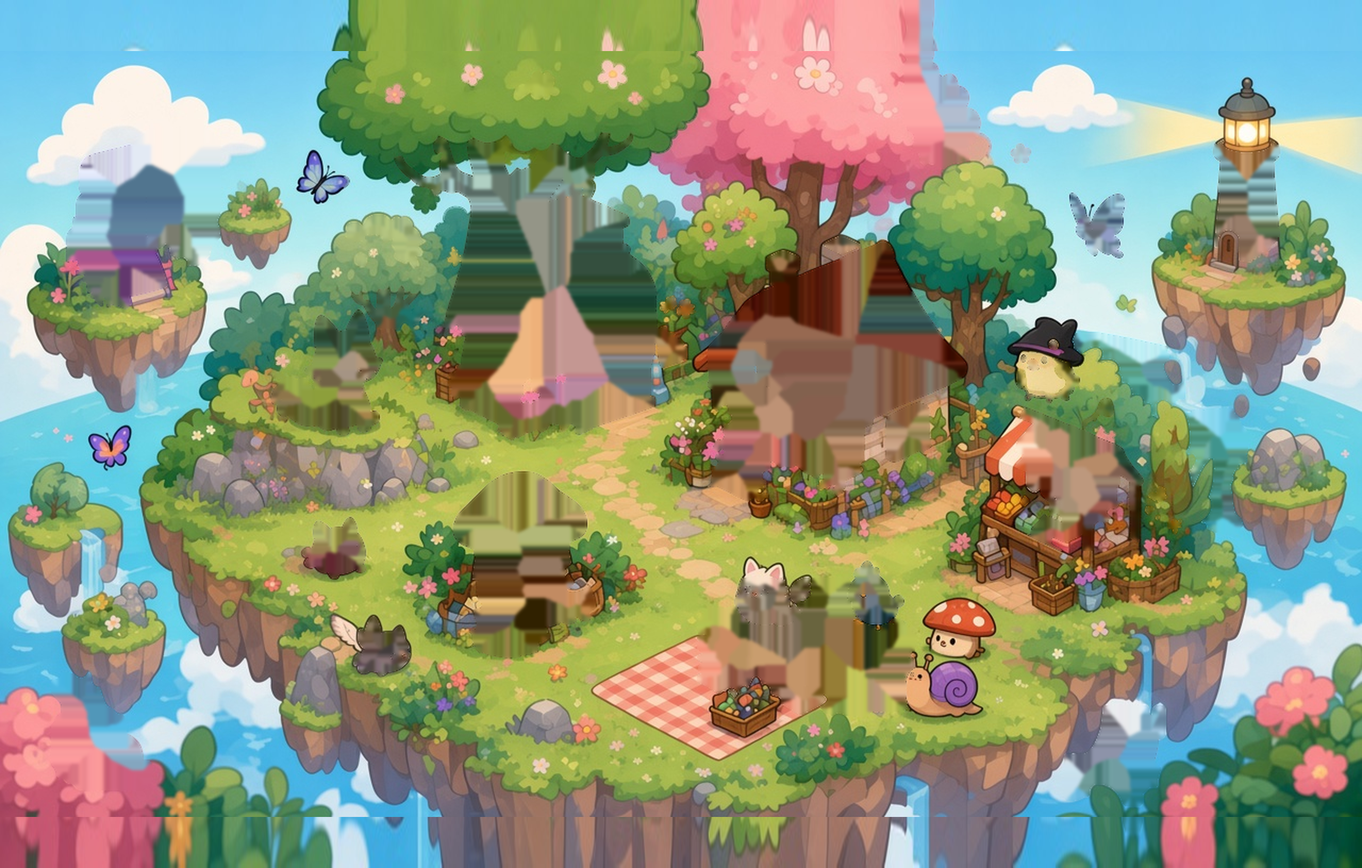
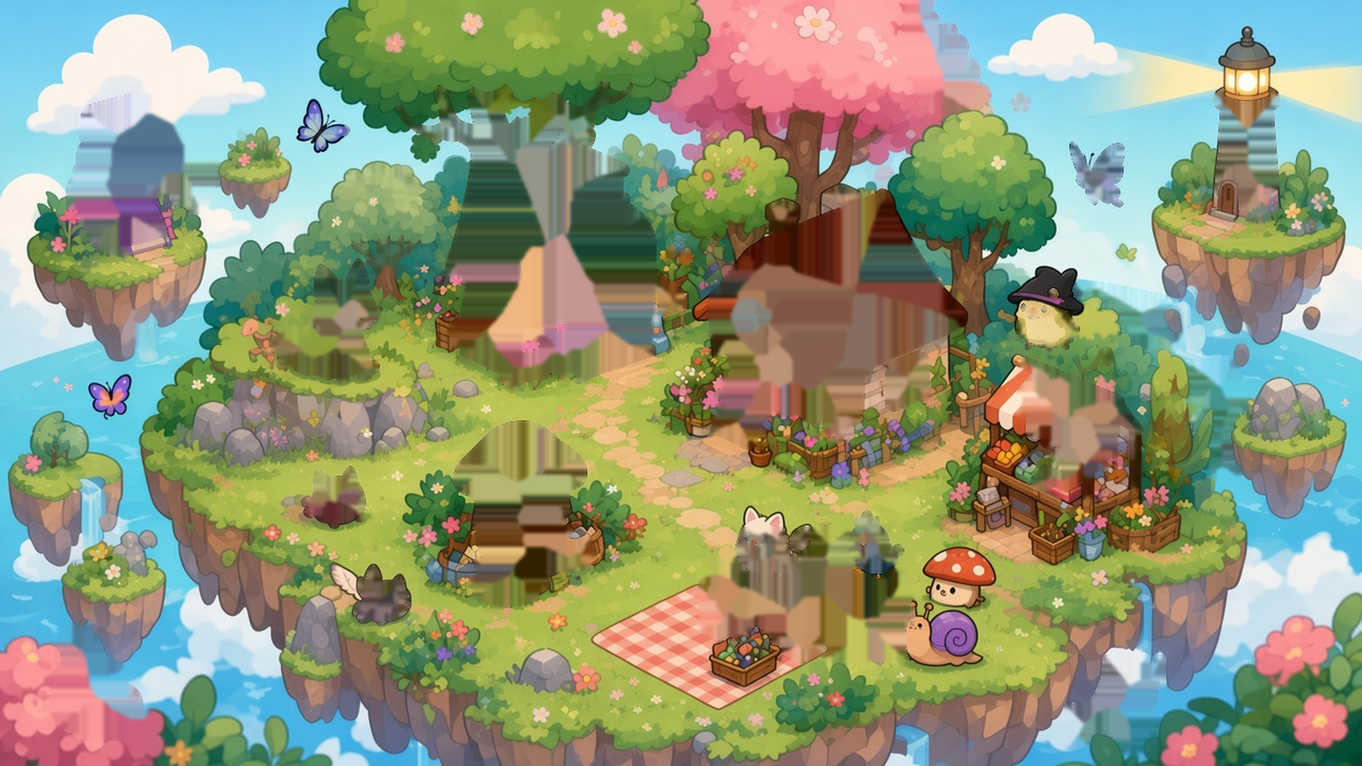
Keep the island view inside the real painting.
The ground plate padded itself by stretching its top and bottom rows, and the camera frame included that pad, so the bottom of the desktop view was a smeared copy of the cliff and flowers. The picture is only the painted pixels now, and the camera stays inside them on taller and shorter windows.

diff --git a/src/world/iso.js b/src/world/iso.js
@@ -26,28 +26,23 @@ export function placeOnPlate(object, x, z, bias = 0) {
 }
 
 /**
- * Sky and sea kept around the painting so the lighthouse cap, the library
- * flag, and the arcade are not cut by the screen edge. Desktop 16:10 and
- * 16:9, and a sideways phone, all contain this frame.
+ * Frame the painting itself.
+ * A margin used to be filled by stretching the picture's edge rows, which
+ * drew a hard seam and streaks under the cliffs and flowers. The view stays
+ * inside the real pixels. A taller window crops the sides a little. A wider
+ * window crops a little sky and foreground instead of stretching the edges.
  */
-const FRAME_MARGIN_Y = 1.15;
+const VIEW_INSET = 0.04;
 
-/**
- * Frame the painting.
- * The view always contains the whole picture, with a band of sky above it
- * and sea below it. A wide window shows a little more sky at the sides.
- */
 export function orthoSize(width, height) {
   const aspect = width / Math.max(1, height);
-  const frameH = PLATE_H + FRAME_MARGIN_Y * 2;
-  const frameW = PLATE_W;
-  const frameAspect = frameW / frameH;
-  if (aspect >= frameAspect) {
-    const viewH = frameH;
-    return { viewW: viewH * aspect, viewH };
+  const artAspect = PLATE_W / PLATE_H;
+  if (aspect >= artAspect) {
+    const viewW = PLATE_W - VIEW_INSET;
+    return { viewW, viewH: viewW / aspect };
   }
-  const viewW = frameW;
-  return { viewW, viewH: viewW / aspect };
+  const viewH = PLATE_H - VIEW_INSET;
+  return { viewW: viewH * aspect, viewH };
 }
 
 /** Short landscape windows are phones held sideways, not a desktop monitor. */

diff --git a/src/data/painted.js b/src/data/painted.js
@@ -2,8 +2,8 @@
  * The bright island. The ground plate is terrain only: islets, sea, paths,
  * and grass. Buildings, trees, the picnic, and animal mascots are separate
  * cards in src/data/layers.js so each file can be replaced on its own.
- * x grows right, z grows down. The picture is 32 units wide and 18 tall,
- * with a little extra sky and sea above and below.
+ * x grows right, z grows down. The picture is 32 units wide and 18 tall.
+ * It is not padded: stretching the edge rows smears the cliff and flowers.
  */
 import {
   CIRCLES,
@@ -18,10 +18,10 @@ export { CIRCLES, HOUSES, LAYOUT, LIBRARY_MASCOT, PAINTED_SPRITES };
 export const PLATE_SRC = "assets/painted/plate.png";
 export const PLATE_PIXELS = {
   pixelWidth: 2560,
-  pixelHeight: 1632,
+  pixelHeight: 1440,
   worldW: 32,
-  worldH: 20.4,
-  pad: 96,
+  worldH: 18,
+  pad: 0,
 };
 export const WALK_MASK_SRC = "assets/painted/walk-mask.png";
 

diff --git a/src/core/Game.js b/src/core/Game.js
@@ -279,11 +279,12 @@ export class Game {
   }
 
   _updateCamera(dt = 0) {
-    // Keep the whole painting on screen. Slide only when the view is smaller
-    // than the picture, which the current frame never is.
+    // Keep the view inside the painting. A short window crops the top and
+    // bottom evenly so the lighthouse stays on screen. Slide only on a
+    // sideways phone, when the view is smaller than the picture.
     let x = 0;
     let y = 0;
-    const pictureFits = this._viewW + 0.01 >= PLATE_W && this._viewH + 0.01 >= PLATE_H;
+    const pictureFits = this._viewW + 0.12 >= PLATE_W && this._viewH + 0.12 >= PLATE_H;
     if (this._phoneLandscape && this.pibo && !pictureFits) {
       const plateH = ASSETS.plate.height;
       const limitX = Math.max(0, (PLATE_W - this._viewW) / 2);

diff --git a/src/world/biome.js b/src/world/biome.js
@@ -6,7 +6,7 @@ import { PLATE_PIXELS } from "../data/painted.js";
  * Red = grass and path, blue = open air over the sea (Pibo flies there).
  * Green in the mask is everything else. Only the sky that touches the top of
  * the picture blocks a step. Rocks, flowers, and the coast stay walkable.
- * The strip of sea painted under the picture is air, same as the sea.
+ * Past the bottom of the picture is out of frame, so a step stops there.
  */
 
 const IMG_W = 1280;

diff --git a/tools/build-layers.py b/tools/build-layers.py
@@ -285,14 +285,10 @@ def build_island():
 
     ground = Image.fromarray(cv2.cvtColor(ground_bgr, cv2.COLOR_BGR2RGB))
     plate = ground.resize((W * 2, H * 2), Image.Resampling.LANCZOS)
-    pad = 96
-    canvas = Image.new("RGB", (W * 2, H * 2 + pad * 2))
-    top = plate.crop((0, 0, plate.width, 28)).resize((plate.width, pad), Image.Resampling.LANCZOS)
-    bot = plate.crop((0, plate.height - 28, plate.width, plate.height)).resize((plate.width, pad), Image.Resampling.LANCZOS)
-    canvas.paste(top, (0, 0))
-    canvas.paste(plate, (0, pad))
-    canvas.paste(bot, (0, pad + plate.height))
-    canvas.save(ROOT / "assets" / "painted" / "plate.png", optimize=True)
+    # Save the painting only. A vertical pad made by stretching the top and
+    # bottom rows becomes a hard seam: the cliff, flowers, and foliage smear
+    # into streaks. The camera frames these pixels and does not show past them.
+    plate.save(ROOT / "assets" / "painted" / "plate.png", optimize=True)
     mask.save(ROOT / "assets" / "painted" / "walk-mask.png")
 
     preview = ground.convert("RGBA")

diff --git a/ASSETS.md b/ASSETS.md
@@ -12,7 +12,7 @@ Replace one PNG and refresh. Positions stay in `src/data/layers.js`. Rebuild fro
 
 ### Ground
 
-- **Plate** (`assets/painted/plate.png`) — terrain only: sky, sea, islet grass, paths, cliffs, and small flowers. Buildings, hero trees, the picnic blanket, and mascots are not in this file. 2560 × 1632. The middle is the 32 × 18 play area.
+- **Plate** (`assets/painted/plate.png`) — terrain only: sky, sea, islet grass, paths, cliffs, and small flowers. Buildings, hero trees, the picnic blanket, and mascots are not in this file. 2560 × 1440, which is the 32 × 18 play area. Do not pad it by stretching the edge rows.
 - **Walk mask** (`assets/painted/walk-mask.png`) — red where Pibo may walk, blue for open sea (he flies there), green for the top sky edge. 640 × 360.
 
 ### Buildings — one file each
